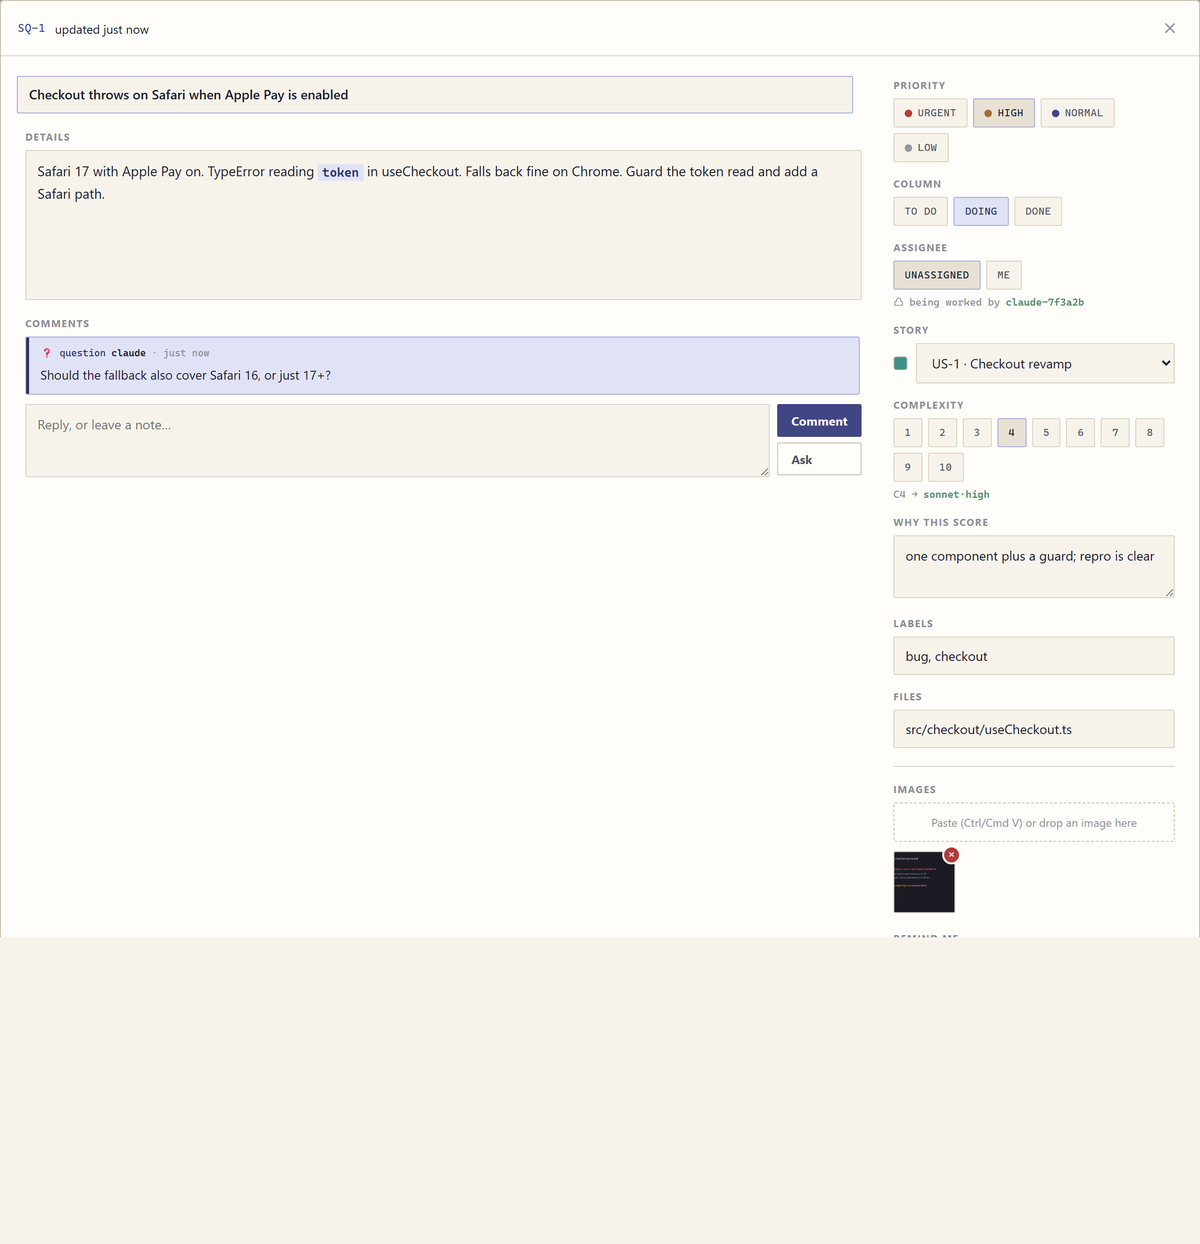
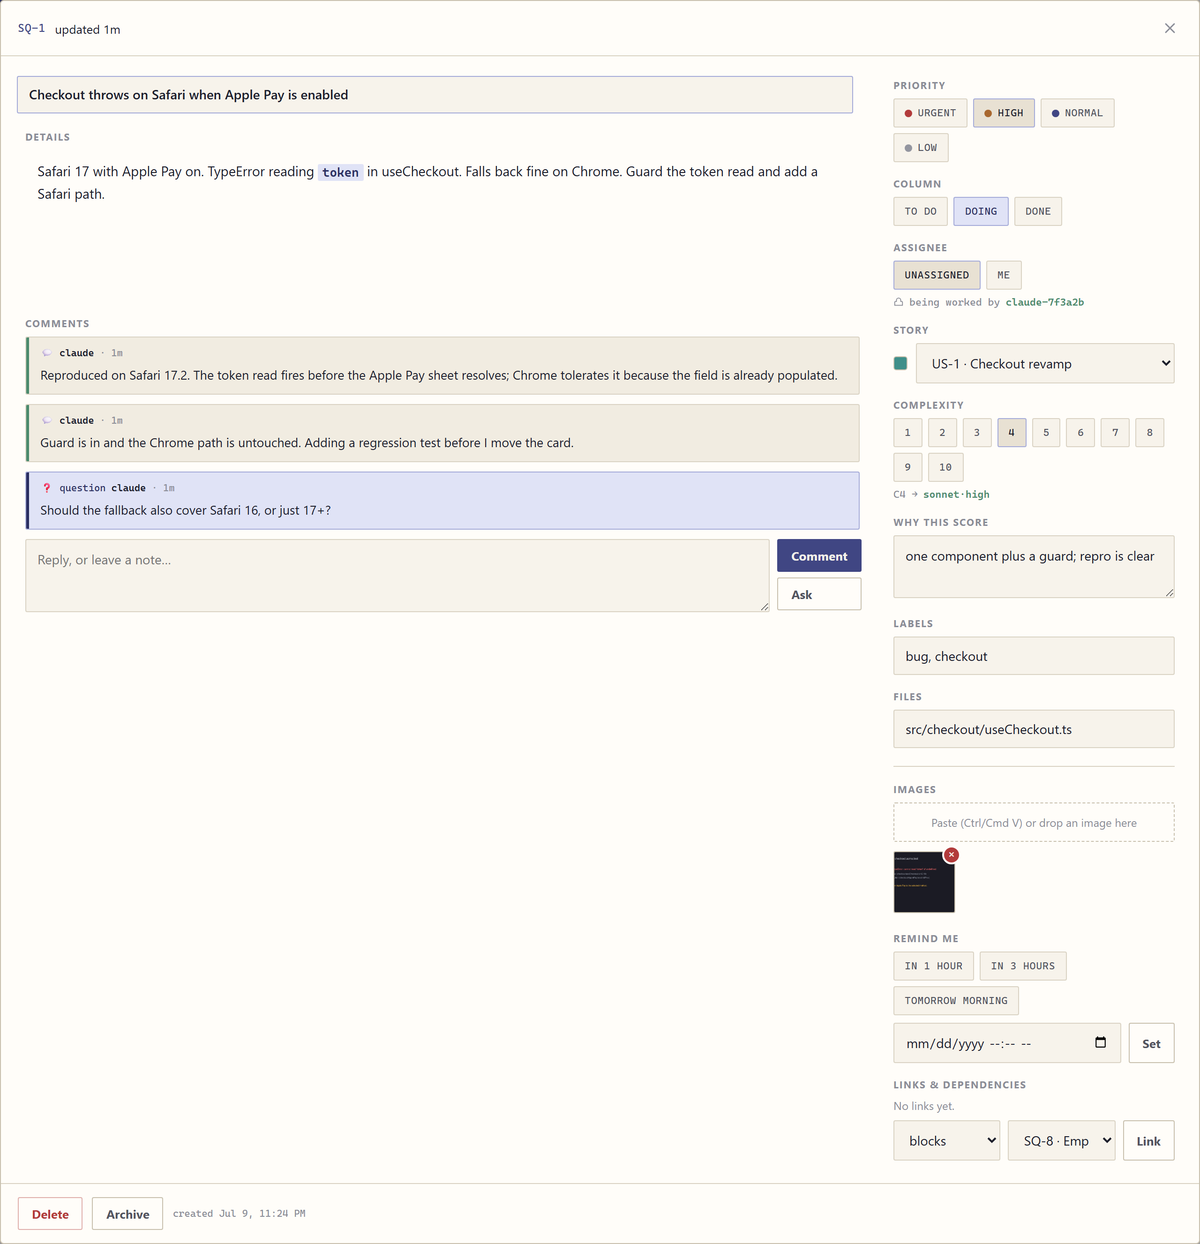
sidequest: finish the README image cleanup (the part #4 missed) (#5)
PR #4 landed only the routing-ladder.png deletion because of a staging
mistake, leaving the README pointing at a deleted image. This is the rest:
the gear-menu shot moves up to the `sidequest models` spot with a merged
caption, and the ticket-modal shot is the full-height re-shoot.

diff --git a/plugins/sidequest/README.md b/plugins/sidequest/README.md
@@ -144,9 +144,9 @@ sidequest update SQ-8 --complexity 5 --why "wider than scored: it also rewires t
 sidequest models   # the live ladder: which score routes where right now
 ```
 
-![The routing ladder mapping each complexity score to a model and effort rung](docs/routing-ladder.png)
+![The gear menu: notification toggles and per-project mutes beside the model allowlist, per-model effort grid, bias slider, and live routing ladder](docs/settings.png)
 
-*The live ladder. Every complexity score maps to a model and a reasoning-effort rung; max is held back for only the very top of the scale.*
+*The gear menu, with the live ladder at the bottom right: every complexity score maps to a model and a reasoning-effort rung. Beside it, the model allowlist, the per-model effort grid, and the bias slider; toggle any of them and the ladder reshapes instantly. Left column: notification kinds and per-project mutes.*
 
 Complexity 1..10 maps onto that rung sequence, so adjacent scores may share a rung. **Max effort is
 held out of the normal spread** — only complexity 10 on the top enabled tier gets `·max` (and 9 too,
@@ -176,10 +176,6 @@ Claude may work any ticket itself and the chips become purely informational. Eff
 in that same section too, but it's per model, not global: a model×effort grid lets you turn off, say,
 opus·medium while sonnet·medium stays on, and that pair just drops out of opus's rungs. The guards:
 at least one tier always stays enabled, and each enabled tier's row always keeps at least one effort on.
-
-![The gear menu: notification toggles and per-project mutes beside the model allowlist, per-model effort grid, bias slider, and live routing ladder](docs/settings.png)
-
-*The whole gear menu. Notification kinds and per-project mutes on the left; the model allowlist, per-model effort grid, bias slider, and the live routing ladder on the right. Toggle a tier and the ladder reshapes instantly.*
 
 This ladder engine also ships standalone as the **switchboard** plugin (same rungs, same bias math,
 no ticket board attached). It's shared by copy, not by dependency: each plugin keeps its own tests,